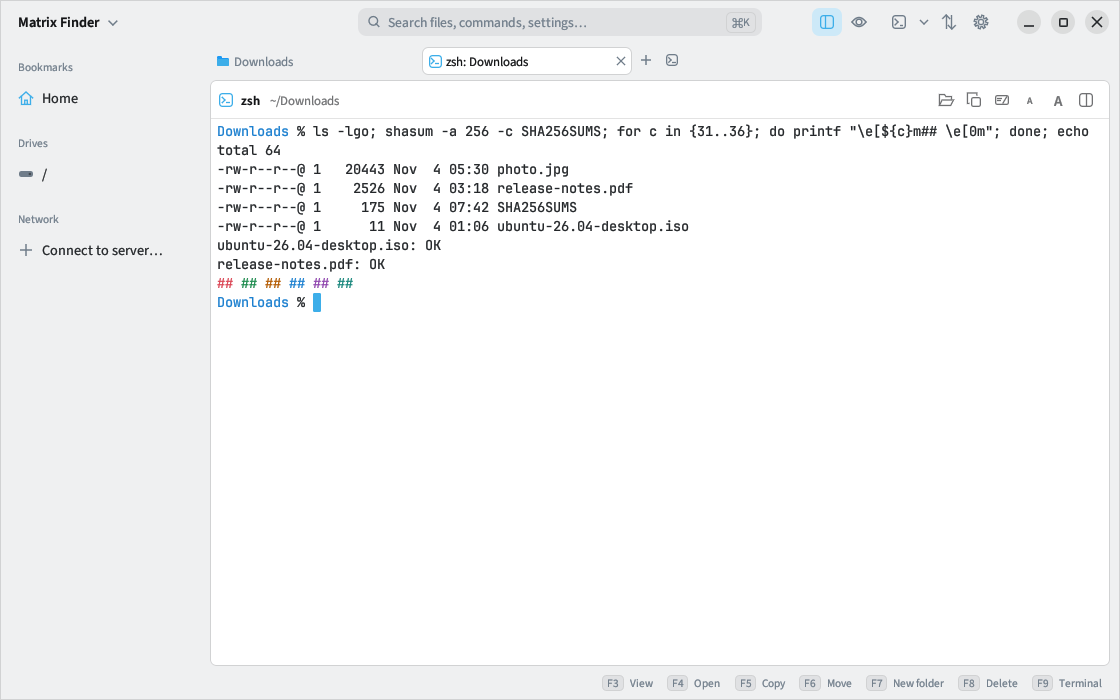
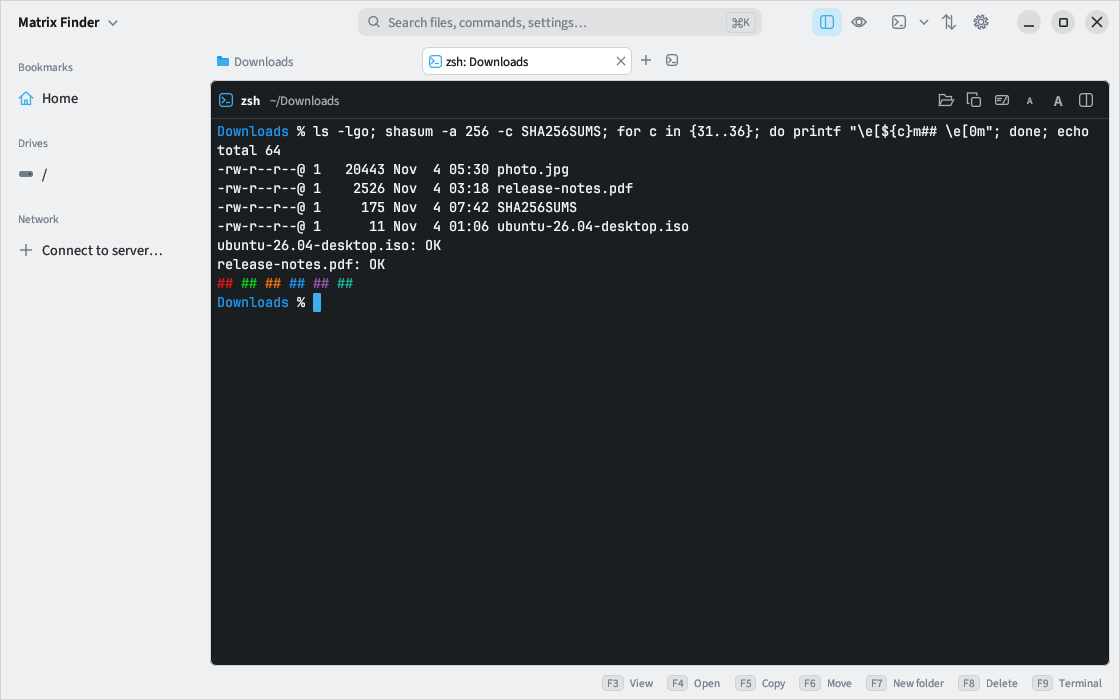
docs: use a dark terminal on the light interface in the readme
The showcase's terminal tile is again light files beside a Breeze Dark
terminal, and the light built-in terminal screenshot uses a Breeze Dark
terminal too. The dark screenshots are unchanged.

diff --git a/src/screenshots.rs b/src/screenshots.rs
@@ -1376,12 +1376,10 @@ fn render_scenes(d: &Demo, mode: Mode, want: &dyn Fn(&str) -> bool) {
         h.state_mut().dialog = None;
     }
 
-    // Light files beside a dark terminal in both modes, so the two windows are easy to
-    // tell apart; the README's showcase has the same scene all in Breeze Light.
-    let terminal_scenes = [("terminal-tabs", "Breeze Dark", true), ("showcase-terminal", "Breeze Light", mode.dir == "light")];
-    for (name, term_theme, _) in terminal_scenes.into_iter().filter(|(name, _, ok)| *ok && (want(name) || (*name == "showcase-terminal" && want("showcase")))) {
+    if want("terminal-tabs") {
+        // Light files beside a dark terminal in both modes, so the two windows are easy to tell apart.
         let mut cfg = settings("Breeze Light", d);
-        set_terminal_theme(&mut cfg, term_theme);
+        set_terminal_theme(&mut cfg, "Breeze Dark");
         cfg.bookmarks = vec![Bookmark::new("Home", d.home.to_string_lossy().to_string())];
         let mut h = app_harness(&cfg, gnome);
         let proj = d.home.join("Projects/matrix_finder");
@@ -1412,7 +1410,7 @@ fn render_scenes(d: &Demo, mode: Mode, want: &dyn Fn(&str) -> bool) {
         app.show_tab(split_tab);
         app.shot_focus(1);
         term_type(&mut h, 0, term, "ls -lgo && cat build.log\n");
-        shot(&mut h, name);
+        shot(&mut h, "terminal-tabs");
     }
 
     if want("terminal-profiles") || want("terminal-themes") || want("settings") {
@@ -1658,7 +1656,10 @@ fn render_scenes(d: &Demo, mode: Mode, want: &dyn Fn(&str) -> bool) {
     }
 
     if want("terminal") {
-        let mut h = app_harness(&downloads_cfg(), gnome);
+        // A dark terminal in the light interface too, like most people run one.
+        let mut cfg = downloads_cfg();
+        set_terminal_theme(&mut cfg, "Breeze Dark");
+        let mut h = app_harness(&cfg, gnome);
         let app = h.state_mut();
         app.shot_pane(0, &d.downloads, Some(".."));
         let term = app.shot_terminal(&d.downloads, None, None);
@@ -1672,8 +1673,8 @@ fn render_scenes(d: &Demo, mode: Mode, want: &dyn Fn(&str) -> bool) {
 
 /// The four scenes of `docs/showcase.png`, left to right and top to bottom:
 /// (mode, scene). Light and dark both appear; `terminal-tabs` is light files beside a dark terminal in either mode.
-/// The four windows of `docs/showcase.png`, all in Breeze Light.
-const SHOWCASE: [(&str, &str); 4] = [("light", "panels"), ("light", "showcase-terminal"), ("light", "table-parquet"), ("light", "disk-usage")];
+/// The four windows of `docs/showcase.png`: the Breeze Light interface, with a dark terminal.
+const SHOWCASE: [(&str, &str); 4] = [("light", "panels"), ("light", "terminal-tabs"), ("light", "table-parquet"), ("light", "disk-usage")];
 
 /// Coverage (0..=1) of a rectangle with rounded corners at pixel (`x`, `y`).
 fn rounded_coverage(x: u32, y: u32, w: u32, h: u32, radius: f32) -> f32 {

diff --git a/README.md b/README.md
@@ -23,9 +23,9 @@ Easy to start with, and it has power-user features in the Total Commander tradit
 
 <br>
 
-<img src="docs/showcase.png" alt="Matrix Finder in the Breeze Light theme: dual panels, files beside a terminal in one tab, a Parquet preview, and a disk usage treemap">
+<img src="docs/showcase.png" alt="Matrix Finder in the Breeze Light theme: dual panels, light files beside a dark terminal in one tab, a Parquet preview, and a disk usage treemap">
 
-<sub>Dual panels · files beside a terminal in one tab · Parquet preview · disk usage treemap, in the <b>Breeze Light</b> theme.</sub>
+<sub>Dual panels · light files beside a dark terminal in one tab · Parquet preview · disk usage treemap, in the <b>Breeze Light</b> theme with a <b>Breeze Dark</b> terminal.</sub>
 
 </div>
 
